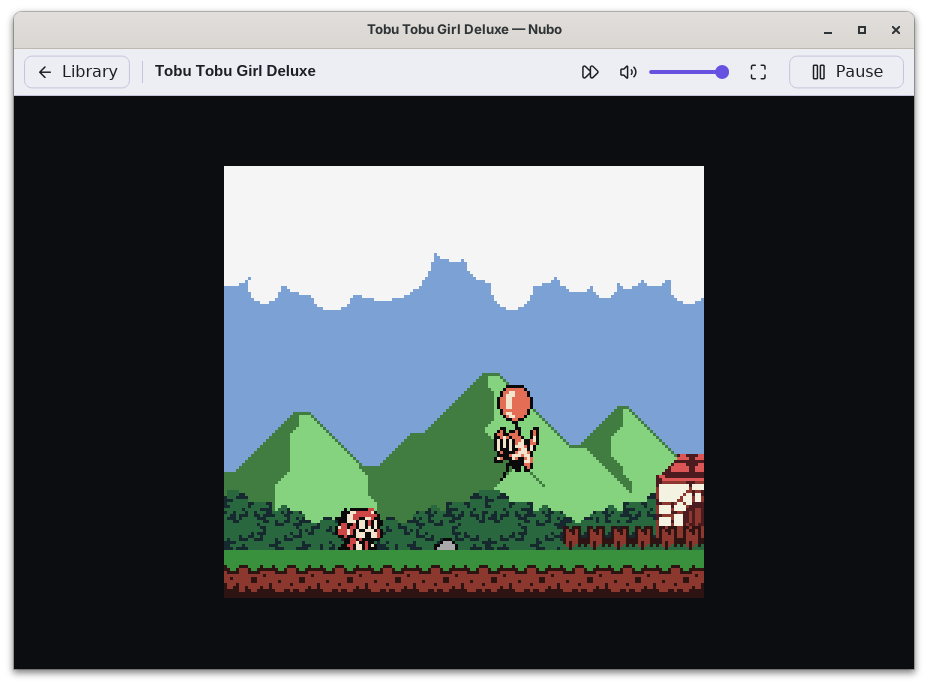
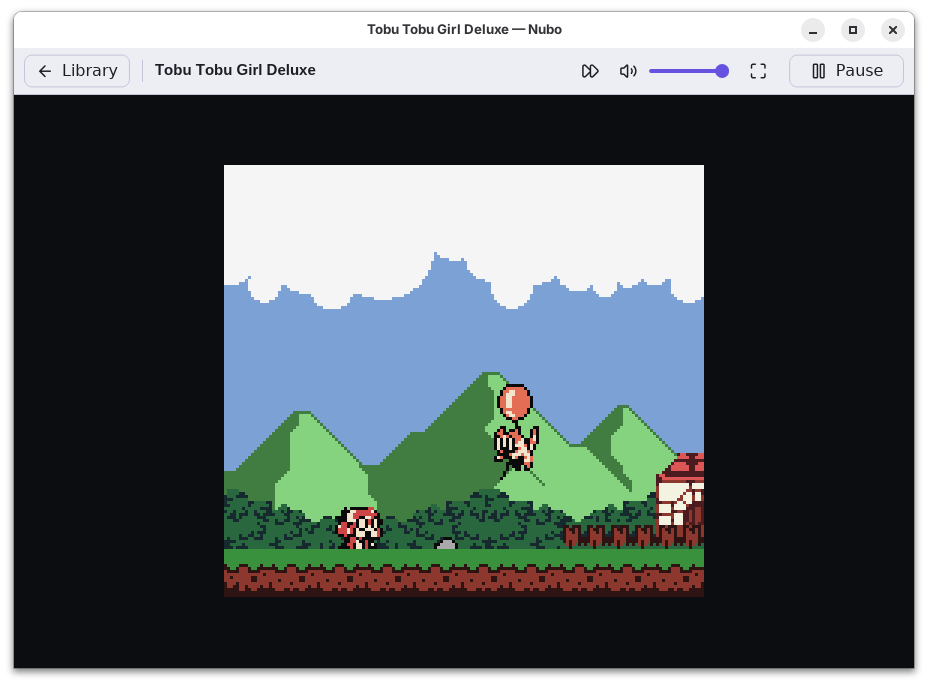
Give the GNOME border libadwaita's title bar
GNOME 46, which the screenshots run on, draws the border of an X11
window with plain GTK 4: a beige title bar with bare buttons. GNOME's
own apps and newer GNOME versions have libadwaita's, the window's color
with round buttons, as the Flathub screenshot had before it was made
again from a scene. The task now gives GTK a stylesheet with
libadwaita's colors and buttons, light and dark, and the Flathub
screenshot is made again with it.

Claude-Session: https://claude.ai/code/session_018UNNdrDrwSt3Xhabcs6WHZ

diff --git a/xtask/src/screenshots/gnome.rs b/xtask/src/screenshots/gnome.rs
@@ -17,7 +17,12 @@
 //! runs as an X11 app through XWayland, since GNOME only draws its own
 //! border around X11 windows (a Wayland app draws its own, which for Nubo
 //! is winit's, and GNOME's window screenshot leaves that out). GTK draws
-//! that border, dark with `GTK_THEME=Adwaita:dark`. Before each picture
+//! that border, dark with `GTK_THEME=Adwaita:dark`. GNOME 46 draws it with
+//! plain GTK 4, whose title bar is beige with bare buttons, while GNOME's
+//! own apps and newer versions of GNOME draw libadwaita's: the window's
+//! color with round buttons. A stylesheet in the session's GTK settings
+//! folder ([`TITLE_BAR_STYLE`]) gives the border libadwaita's look, so the
+//! pictures look like GNOME on a desktop today. Before each picture
 //! the X pointer goes to the screen's bottom-right corner (with xdotool),
 //! so it hovers over nothing in the window: an X server starts with its
 //! pointer in the middle of the screen. Each picture is then either taken
@@ -48,6 +53,35 @@ const TOOLS: [(&str, &str); 6] = [
 /// What else GNOME's border needs to look as it does on a desktop: the
 /// title's font and the icons of its buttons.
 const LOOKS: [&str; 2] = ["fonts-cantarell", "adwaita-icon-theme"];
+/// The stylesheet that gives GNOME's border libadwaita's title bar (see
+/// the module's documentation): `{background}` and `{foreground}` are the
+/// light or dark colors of [`title_bar_style`]. GNOME draws the border of
+/// an X11 window with GTK 4 (`mutter-x11-frames`), which reads it from
+/// `gtk-4.0/gtk.css` in `XDG_CONFIG_HOME`.
+const TITLE_BAR_STYLE: &str = "\
+headerbar, headerbar:backdrop {
+  background: {background};
+  color: {foreground};
+  box-shadow: none;
+  border: none;
+}
+headerbar:backdrop .title { color: {foreground}; }
+windowcontrols button, windowcontrols button:hover, windowcontrols button:backdrop {
+  background: none;
+  border: none;
+  box-shadow: none;
+  padding: 0;
+  margin: 0 5px;
+  min-width: 24px;
+  min-height: 24px;
+  color: {foreground};
+}
+windowcontrols button > image {
+  border-radius: 100%;
+  padding: 4px;
+  background-color: alpha(currentColor, 0.1);
+}
+";
 /// How long GNOME Shell may take to start.
 const SHELL_START: Duration = Duration::from_secs(60);
 /// How long the app may take to show a scene and take its picture, which
@@ -258,6 +292,12 @@ impl Session {
         if dark {
             environment.push((String::from("GTK_THEME"), String::from("Adwaita:dark")));
         }
+        let gtk_settings = folder.join("config").join("gtk-4.0");
+        fs::create_dir_all(&gtk_settings)
+            .map_err(|error| format!("couldn't create {}: {error}", gtk_settings.display()))?;
+        let stylesheet = gtk_settings.join("gtk.css");
+        fs::write(&stylesheet, title_bar_style(dark))
+            .map_err(|error| format!("couldn't write {}: {error}", stylesheet.display()))?;
 
         let log = folder.join("gnome-shell.log");
         let output = File::create(&log)
@@ -448,6 +488,19 @@ impl Session {
         let _ = self.shell.kill();
         let _ = self.shell.wait();
     }
+}
+
+/// [`TITLE_BAR_STYLE`] in libadwaita's light or dark colors: a white or
+/// dark gray title bar, with nearly black or white text and buttons.
+fn title_bar_style(dark: bool) -> String {
+    let (background, foreground) = if dark {
+        ("#2e2e32", "#ffffff")
+    } else {
+        ("#ffffff", "rgba(0, 0, 6, 0.8)")
+    };
+    TITLE_BAR_STYLE
+        .replace("{background}", background)
+        .replace("{foreground}", foreground)
 }
 
 /// Runs `script` in the GNOME Shell on the session bus and returns what it

diff --git a/docs/SCREENSHOTS_PLAN.md b/docs/SCREENSHOTS_PLAN.md
@@ -29,8 +29,10 @@ Where the build differs from the plan below:
   renders.
 - **GNOME 46's border:** GNOME draws the border of an XWayland window with GTK 4, so on GNOME 46 (Ubuntu
   24.04, which cloud sessions and GitHub's runners have) it has the shadow and rounded top corners, square
-  bottom corners and plain window buttons, not libadwaita's round ones. A newer GNOME would draw a newer
-  border, and GNOME's version decides the pixels of those pictures.
+  bottom corners, and plain GTK 4's beige title bar with bare buttons. A stylesheet the task gives GTK
+  (`TITLE_BAR_STYLE` in `xtask/src/screenshots/gnome.rs`) draws libadwaita's title bar instead: the window's
+  color with round buttons, as GNOME's own apps and newer GNOME versions look. GNOME's version still decides
+  the pixels of those pictures.
 - **The recorder's preview** leaves out the toasts and isn't taken while a question is open, since scenes keep
   neither; nor while the player's own data shows (box art, a cheat that is on, or a pause menu page listing
   saved states or cheats), which a capture never has. A scene's game keeps no battery saves, with its cartridge
